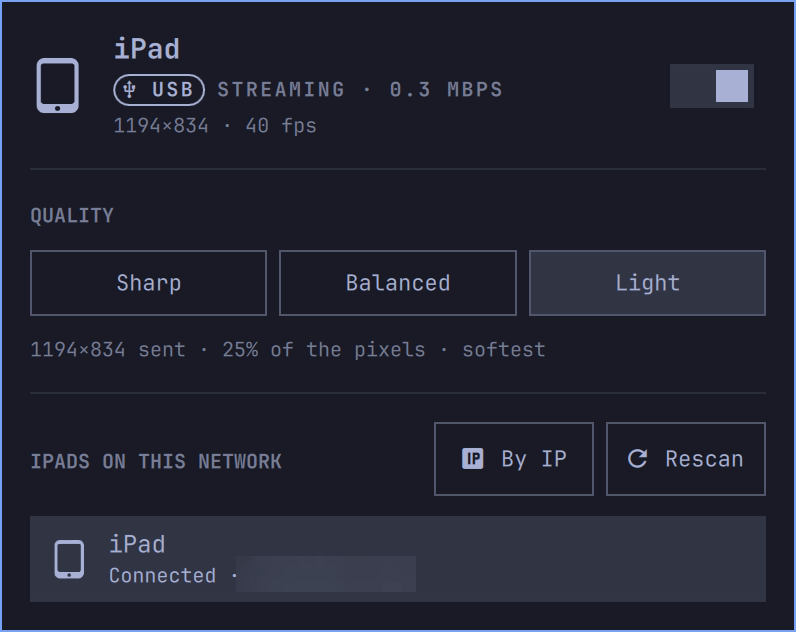
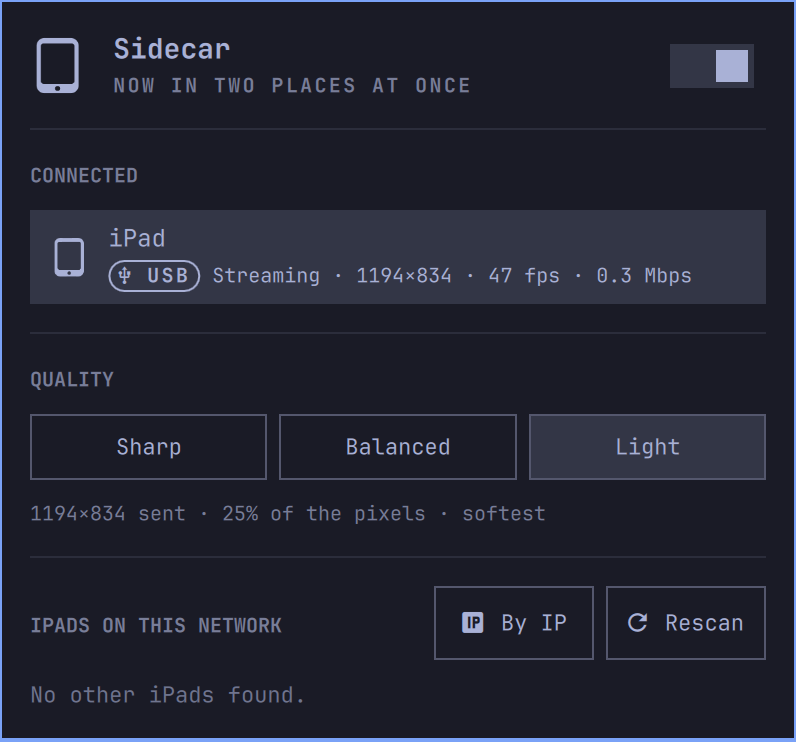
Redesigned panel with connected-device section

diff --git a/Panel.qml b/Panel.qml
@@ -55,20 +55,48 @@ Panel {
 
   // "USB" | "Wi-Fi" | "" — what the live connection runs over.
   readonly property string transport: streaming ? String(status.transport || "") : ""
-  // "2388×1668 · 59 fps" while streaming (encoded size; older senders only report the panel).
-  readonly property string videoLine: {
-    if (!streaming) return ""
-    var size = String(status.video || status.panel || "").replace("x", "×")
-    return (size ? size + " · " : "") + Math.round(status.fps || 0) + " fps"
-  }
-
+  // Details under the connected device: "Streaming · 1194×834 · 40 fps · 0.3 Mbps".
   readonly property string statusLine: {
-    if (st === "streaming") return "Streaming · " + Number(status.mbps || 0).toFixed(1) + " Mbps"
+    if (st === "streaming") {
+      var size = String(status.video || status.panel || "").replace("x", "×")
+      return "Streaming · " + (size ? size + " · " : "") + Math.round(status.fps || 0) + " fps · "
+        + Number(status.mbps || 0).toFixed(1) + " Mbps"
+    }
     if (st === "connecting") return "Connecting…"
     if (st === "reconnecting") return "Reconnecting…"
-    if (st === "sleeping") return "iPad locked — resumes on wake"
-    if (st === "error") return "Error"
-    return "Not connected"
+    if (st === "sleeping") return "Locked — resumes on wake"
+    return ""
+  }
+
+  // A friendly name for the connected device. While connecting the state file can
+  // hold the raw target (a UUID or an IP), which must never be shown as a name.
+  readonly property string deviceName: {
+    var d = String(status.device || "")
+    var looksRaw = /^[0-9a-f]{8}-[0-9a-f]{4}-/i.test(d) || /^[0-9.:\[\]]+$/.test(d)
+    if (d !== "" && !looksRaw) return d
+    for (var i = 0; i < devices.length; i++)
+      if (devices[i].id && devices[i].id === status.id) return String(devices[i].name)
+    return "iPad"
+  }
+
+  function isConnectedDevice(d) {
+    return active && ((d.id && d.id === status.id) || (!d.id && d.name === status.device))
+  }
+  readonly property var otherDevices: devices.filter(function(d) { return !root.isConnectedDevice(d) })
+
+  // The quirky line under the title; a new pick each time the panel opens.
+  property int quipSeed: 0
+  readonly property var quips: ({
+    idle: ["Your iPad, but make it a monitor", "Two screens are better than one", "Room for one more screen"],
+    connecting: ["Shaking hands with the iPad…"],
+    reconnecting: ["Finding the iPad again…"],
+    streaming: ["Now in two places at once", "Your desktop grew an iPad", "More room to think"],
+    sleeping: ["The iPad is napping"],
+    error: ["Something went sideways"]
+  })
+  readonly property string quip: {
+    var list = quips[st] || quips.idle
+    return list[quipSeed % list.length]
   }
 
   onStatusChanged: {
@@ -219,6 +247,7 @@ Panel {
   // ------------------------------------------------------------- bar button
 
   onOpenedChanged: {
+    if (opened) quipSeed = Math.floor(Math.random() * 1000)
     cursorActive = false
     cursorIndex = 0
     editingHost = false
@@ -261,8 +290,8 @@ Panel {
       function() { root.beginHostEntry() },
       function() { root.scan() }
     ]
-    for (var i = 0; i < devices.length; i++) {
-      (function(d) { list.push(function() { root.connectTo(d.id || d.name) }) })(devices[i])
+    for (var i = 0; i < otherDevices.length; i++) {
+      (function(d) { list.push(function() { root.connectTo(d.id || d.name) }) })(otherDevices[i])
     }
     return list
   }
@@ -305,7 +334,7 @@ Panel {
         anchors.top: parent.top
         spacing: Style.space(14)
 
-        // ---------- Hero: tablet glyph · device/status · on/off switch ----------
+        // ---------- Hero: icon · Sidecar + quip · on/off switch (as in Bluetooth) ----------
         Item {
           width: parent.width
           implicitHeight: Math.max(heroIcon.implicitHeight, heroLabels.implicitHeight, powerSwitch.implicitHeight)
@@ -344,11 +373,11 @@ Panel {
             anchors.right: powerSwitch.left
             anchors.rightMargin: Style.space(12)
             anchors.verticalCenter: parent.verticalCenter
-            spacing: Style.space(3)
+            spacing: Style.space(2)
 
             Text {
               textFormat: Text.PlainText
-              text: root.active && root.status.device ? String(root.status.device) : "iPad display"
+              text: "Sidecar"
               color: root.bar.foreground
               font.family: root.bar.fontFamily
               font.pixelSize: Style.font.title
@@ -357,76 +386,50 @@ Panel {
               width: parent.width
             }
 
-            Row {
-              width: parent.width
-              spacing: Style.space(6)
-
-              // Transport badge: which link the stream rides on.
-              Rectangle {
-                id: transportBadge
-                visible: root.transport !== ""
-                anchors.verticalCenter: parent.verticalCenter
-                width: badgeLabel.implicitWidth + Style.space(10)
-                height: badgeLabel.implicitHeight + Style.space(2)
-                radius: height / 2
-                color: "transparent"
-                border.width: 1
-                border.color: root.bar.foreground
-
-                Text {
-                  id: badgeLabel
-                  anchors.centerIn: parent
-                  textFormat: Text.PlainText
-                  text: (root.transport === "USB" ? root.glyphUsb : root.glyphWifi) + " " + root.transport.toUpperCase()
-                  color: root.bar.foreground
-                  font.family: root.bar.fontFamily
-                  font.pixelSize: Style.font.caption
-                  font.bold: true
-                  font.letterSpacing: 1.2
-                }
-              }
-
-              Text {
-                anchors.verticalCenter: parent.verticalCenter
-                textFormat: Text.PlainText
-                text: root.statusLine.toUpperCase()
-                color: Qt.darker(root.bar.foreground, 1.4)
-                font.family: root.bar.fontFamily
-                font.pixelSize: Style.font.caption
-                font.bold: true
-                font.letterSpacing: 1.2
-                elide: Text.ElideRight
-                width: parent.width - (transportBadge.visible ? transportBadge.width + parent.spacing : 0)
-              }
-            }
-
-            // Live resolution and frame rate, quiet third line.
             Text {
-              visible: root.videoLine !== ""
               textFormat: Text.PlainText
-              text: root.videoLine
+              text: root.quip.toUpperCase()
               color: Qt.darker(root.bar.foreground, 1.4)
               font.family: root.bar.fontFamily
               font.pixelSize: Style.font.caption
+              font.bold: true
+              font.letterSpacing: 1.2
               elide: Text.ElideRight
-              width: parent.width
-            }
-
-            Text {
-              visible: root.st === "error" && !!root.status.message
-              textFormat: Text.PlainText
-              text: String(root.status.message || "")
-              color: root.bar.foreground
-              opacity: 0.7
-              font.family: root.bar.fontFamily
-              font.pixelSize: Style.font.bodySmall
-              wrapMode: Text.WordWrap
               width: parent.width
             }
           }
         }
 
+        Text {
+          visible: root.st === "error" && !!root.status.message
+          textFormat: Text.PlainText
+          text: String(root.status.message || "")
+          color: root.bar.foreground
+          opacity: 0.7
+          font.family: root.bar.fontFamily
+          font.pixelSize: Style.font.bodySmall
+          wrapMode: Text.WordWrap
+          width: parent.width
+        }
+
         PanelSeparator { foreground: root.bar.foreground }
+
+        // ---------- Connected ----------
+        Column {
+          visible: root.active
+          width: parent.width
+          spacing: Style.space(10)
+
+          PanelSectionHeader {
+            text: "CONNECTED"
+            foreground: root.bar.foreground
+            fontFamily: root.bar.fontFamily
+          }
+
+          ConnectedRow { width: parent.width }
+        }
+
+        PanelSeparator { visible: root.active; foreground: root.bar.foreground }
 
         // ---------- Quality ----------
         Column {
@@ -493,9 +496,10 @@ Panel {
           }
 
           Text {
-            visible: root.devices.length === 0 && !root.scanning
+            visible: root.otherDevices.length === 0 && !root.scanning
             textFormat: Text.PlainText
-            text: "None found. Open OpenDisplay on the iPad (same Wi-Fi), or connect by IP."
+            text: root.active ? "No other iPads found."
+                              : "None found. Open OpenDisplay on the iPad (same Wi-Fi), or connect by IP."
             color: root.bar.foreground
             opacity: 0.6
             font.family: root.bar.fontFamily
@@ -505,7 +509,7 @@ Panel {
           }
 
           Repeater {
-            model: root.devices
+            model: root.otherDevices
             DeviceRow {
               required property var modelData
               required property int index
@@ -547,6 +551,107 @@ Panel {
               font.pixelSize: Style.font.bodySmall
               anchors.verticalCenter: parent.verticalCenter
             }
+          }
+        }
+      }
+    }
+  }
+
+  // The connected device, like Bluetooth's CONNECTED rows: name, then a badge
+  // for the link and the live stream details. Clicking it disconnects.
+  component ConnectedRow: CursorSurface {
+    id: crow
+    current: true
+    foreground: root.bar.foreground
+    implicitHeight: crowContent.implicitHeight + Style.spacing.rowPaddingX
+
+    MouseArea {
+      id: crowMouse
+      anchors.fill: parent
+      hoverEnabled: true
+      cursorShape: Qt.PointingHandCursor
+      onClicked: root.disconnect()
+    }
+
+    PanelToolTip {
+      visible: crowMouse.containsMouse
+      text: "Disconnect"
+      fontFamily: root.bar.fontFamily
+    }
+
+    Item {
+      id: crowContent
+      anchors.left: parent.left
+      anchors.right: parent.right
+      anchors.verticalCenter: parent.verticalCenter
+      anchors.leftMargin: Style.space(10)
+      anchors.rightMargin: Style.space(10)
+      implicitHeight: Math.max(crowIcon.implicitHeight, crowInfo.implicitHeight)
+
+      IPadIcon {
+        id: crowIcon
+        iconSize: Style.font.heading * 1.2
+        color: root.bar.foreground
+        anchors.left: parent.left
+        anchors.verticalCenter: parent.verticalCenter
+      }
+
+      Column {
+        id: crowInfo
+        spacing: Style.space(3)
+        anchors.left: crowIcon.right
+        anchors.leftMargin: Style.space(10)
+        anchors.right: parent.right
+        anchors.verticalCenter: parent.verticalCenter
+
+        Text {
+          textFormat: Text.PlainText
+          text: root.deviceName
+          color: root.bar.foreground
+          font.family: root.bar.fontFamily
+          font.pixelSize: Style.font.body
+          elide: Text.ElideRight
+          width: parent.width
+        }
+
+        Row {
+          width: parent.width
+          spacing: Style.space(6)
+
+          // Which link the stream rides on.
+          Rectangle {
+            id: transportBadge
+            visible: root.transport !== ""
+            anchors.verticalCenter: parent.verticalCenter
+            width: badgeLabel.implicitWidth + Style.space(10)
+            height: badgeLabel.implicitHeight + Style.space(2)
+            radius: height / 2
+            color: "transparent"
+            border.width: 1
+            border.color: root.bar.foreground
+
+            Text {
+              id: badgeLabel
+              anchors.centerIn: parent
+              textFormat: Text.PlainText
+              text: (root.transport === "USB" ? root.glyphUsb : root.glyphWifi) + " " + root.transport.toUpperCase()
+              color: root.bar.foreground
+              font.family: root.bar.fontFamily
+              font.pixelSize: Style.font.caption
+              font.bold: true
+              font.letterSpacing: 1.2
+            }
+          }
+
+          Text {
+            anchors.verticalCenter: parent.verticalCenter
+            textFormat: Text.PlainText
+            text: root.statusLine
+            color: root.bar.foreground
+            font.family: root.bar.fontFamily
+            font.pixelSize: Style.font.caption
+            elide: Text.ElideRight
+            width: parent.width - (transportBadge.visible ? transportBadge.width + parent.spacing : 0)
           }
         }
       }

diff --git a/README.md b/README.md
@@ -19,7 +19,7 @@ A bar widget creates a virtual monitor sized to your iPad and streams it to the 
 ## Install
 
 ```sh
-omarchy plugin add https://github.com/LeoAba/leoaba-sidecar --enable
+omarchy plugin add https://github.com/LeoAba/omarchy-sidecar-leoaba --enable
 ~/.config/omarchy/plugins/io.github.leoaba.sidecar/setup
 ```
 
